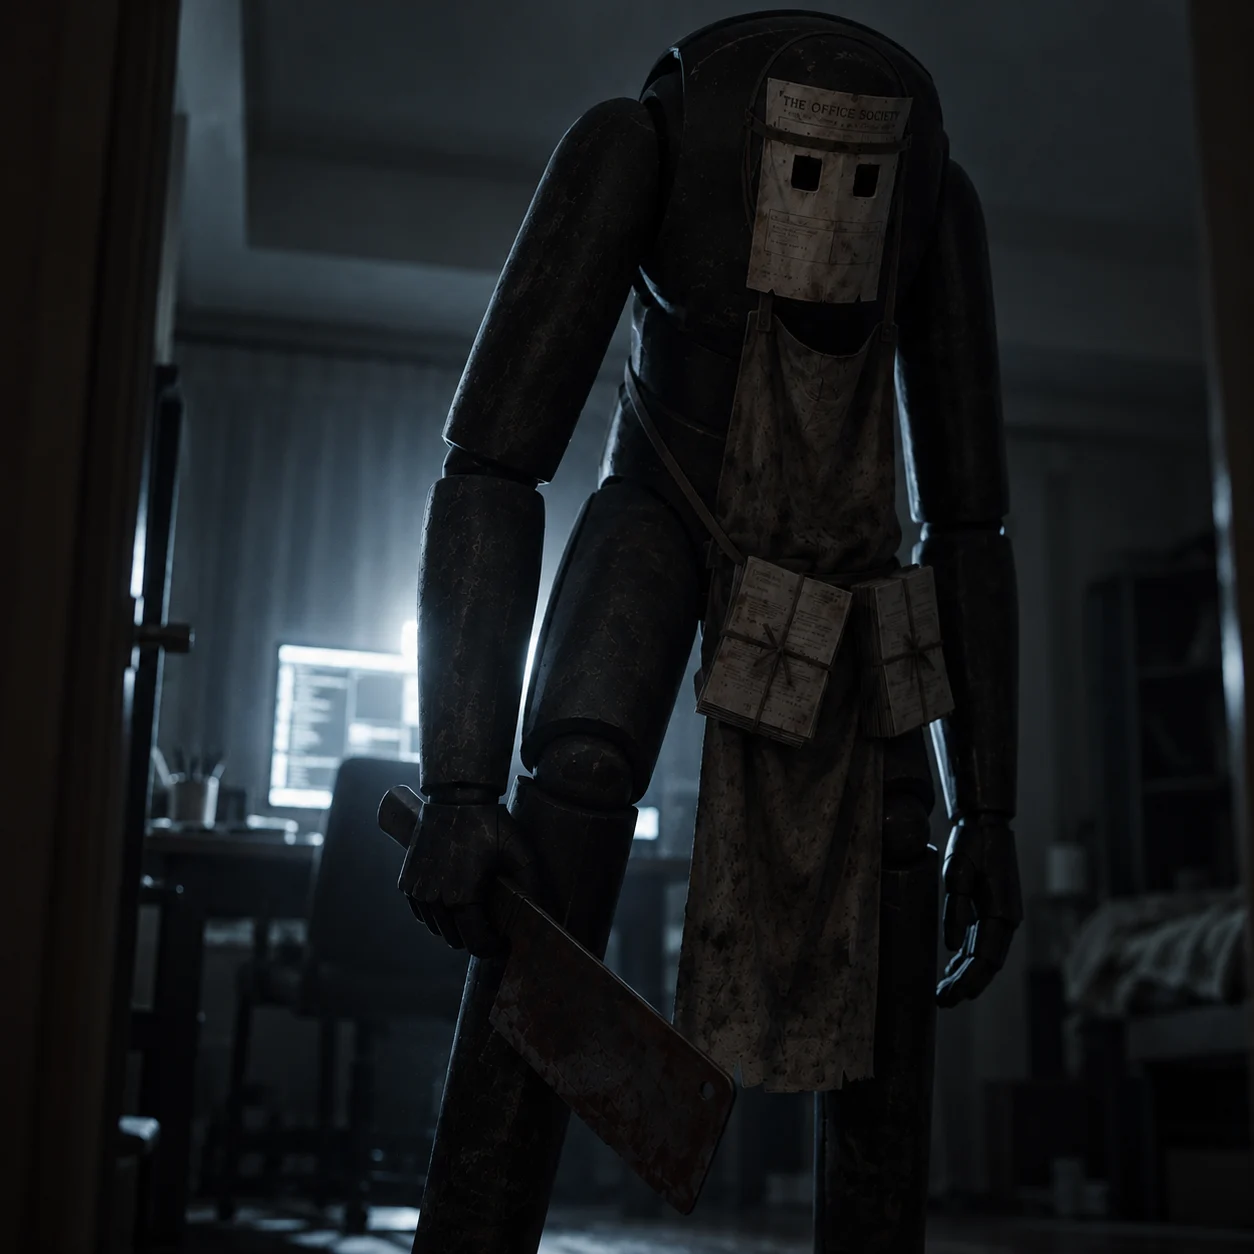
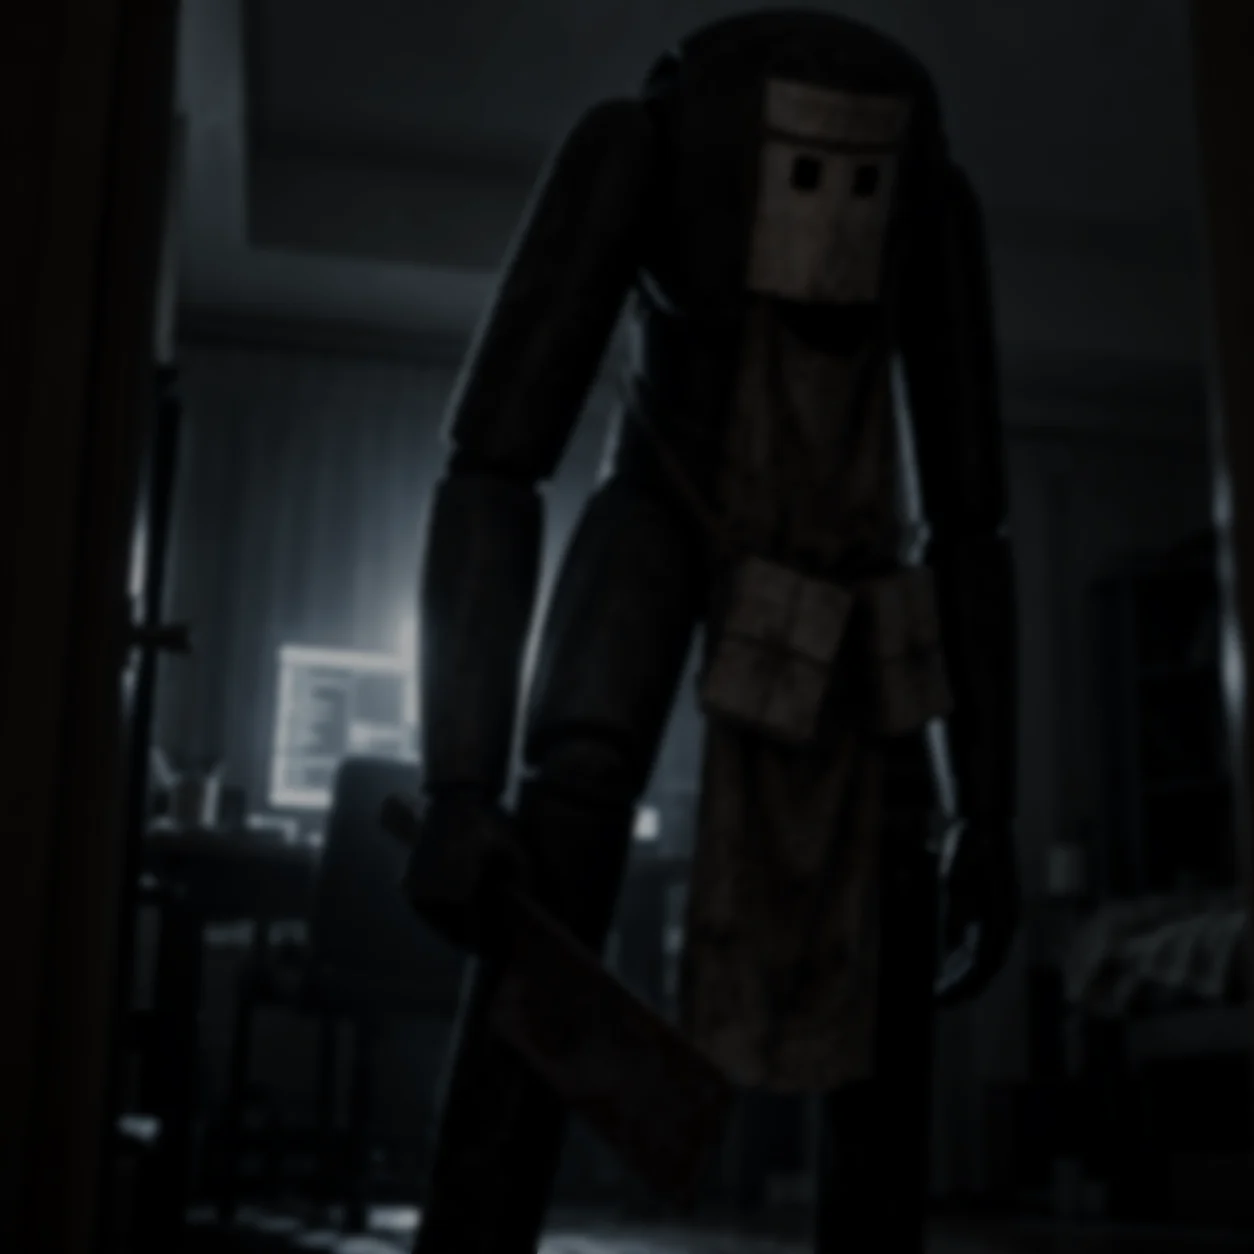
board #17: ウエルカムページ(一番最初に開いたときのページ)をもう少し凝っていきたい。

diff --git a/index.html b/index.html
@@ -93,22 +93,30 @@
   #title .tLayer { position: absolute; inset: 0; pointer-events: none; }
   #tArt { opacity: 0; transition: opacity 2.6s ease-out, transform 0.9s ease-out; }
   #title.lit #tArt { opacity: 1; }
-  #tDrift { position: absolute; inset: 0; transform-origin: 76% 16%;
+  #tDrift { position: absolute; inset: 0; transform-origin: 78% 30%;
             animation: tDrift 28s ease-in-out infinite alternate; }
   @keyframes tDrift { from { transform: scale(1.02); } to { transform: scale(1.06) translateX(-0.8%); } }
-  /* 絵は正方形（決定稿 concept4 の怪人）。横長の画面では高さに合わせて右に寄せ、左の文字の側は
-     マスクで闇に溶かす。画面いっぱいに覆うと（cover）16:9 では上下が 44% 切れて、顔が画面の外に出る。
+  /* 絵は正方形（決定稿 concept4 の怪人）。画面いっぱいに覆うと（cover）16:9 では上下が 44% 切れて、
+     顔が画面の外に出るので、画面の高さより小さく置いて右に寄せる。
+     2026-10-28 依頼主「存在がはっきり見えすぎ」→ 引いて（104vh → 84vh）ぼかし、暗くした。
+     **ぼかしと暗さは画像に焼き込んである（tools/make-title-art.mjs）。ここで filter を掛けないこと。**
+     親（#tDrift）が拡大し続けるので毎フレーム掛け直しになり、ソフトウェア描画ではタイトルが固まる。
+     はっきり見せないのはホラーの文法：何がいるのかを目で確かめさせない。ゲームの中で初めて正体を見る。
+     絵が画面より小さいので、四辺とも闇に溶かす（2つのマスクの積＝intersect）。
      怪人の顔（画像の 67% 15%）を原点に拡大する。原点が顔なので、拡大しても**顔の位置は動かず、
      体と部屋だけが広がる**＝近づいて見える。（胴を原点にすると、近づくたびに顔が上へ逃げて切れる） */
   #tArtImg {
-    position: absolute; top: 0; width: 104vh; height: 104vh;   /* 頭頂が原画の上端に近いので、下を切る */
-    left: max(calc(100vw - 104vh), calc(55vw - 0.67 * 104vh));
+    position: absolute; top: 14vh; width: 84vh; height: 84vh;
+    left: max(calc(96vw - 84vh), calc(55vw - 0.67 * 84vh));
     background: url(assets/title/title_mannequin.webp) center / cover no-repeat;
     transform-origin: 67% 15%;
     transform: scale(var(--near, 1));
-    filter: brightness(0.86) saturate(0.85) contrast(1.05);
-    -webkit-mask-image: linear-gradient(90deg, transparent 0%, #000 26%);
-            mask-image: linear-gradient(90deg, transparent 0%, #000 26%);
+    -webkit-mask-image: linear-gradient(90deg, transparent 0%, #000 30%, #000 82%, transparent 100%),
+                        linear-gradient(180deg, transparent 0%, #000 22%, #000 78%, transparent 100%);
+    -webkit-mask-composite: source-in;
+            mask-image: linear-gradient(90deg, transparent 0%, #000 30%, #000 82%, transparent 100%),
+                        linear-gradient(180deg, transparent 0%, #000 22%, #000 78%, transparent 100%);
+            mask-composite: intersect;
   }
   /* 奥のモニターの光。画像の中の位置に合わせて置き、不規則に揺らす */
   #tLamp { position: absolute; left: 31%; top: 53%; width: 36%; aspect-ratio: 1;
@@ -273,8 +281,12 @@
   #pause.fromTitle h2 { margin-bottom: 26px; }
 
   @media (orientation: portrait) {
-    /* 縦長では顔を画面の中央やや右に置き、左右ははみ出させる（マスクも不要） */
-    #tArtImg { left: calc(58vw - 0.67 * 104vh); -webkit-mask-image: none; mask-image: none; }
+    /* 縦長では画面の上の方、顔を中央やや右に置く。左右ははみ出させ、上下だけ闇に溶かす */
+    #tArtImg { top: 4vh; width: 66vh; height: 66vh; left: calc(58vw - 0.67 * 66vh);
+               -webkit-mask-image: linear-gradient(180deg, transparent 0%, #000 18%, #000 70%, transparent 100%);
+               -webkit-mask-composite: source-over;
+                       mask-image: linear-gradient(180deg, transparent 0%, #000 18%, #000 70%, transparent 100%);
+                       mask-composite: add; }
     #tShade { background:
       linear-gradient(0deg, rgba(3,3,5,0.95) 0%, rgba(3,3,5,0.75) 45%, rgba(3,3,5,0.1) 75%),
       radial-gradient(ellipse at 60% 30%, transparent 30%, rgba(0,0,0,0.7) 100%); }
